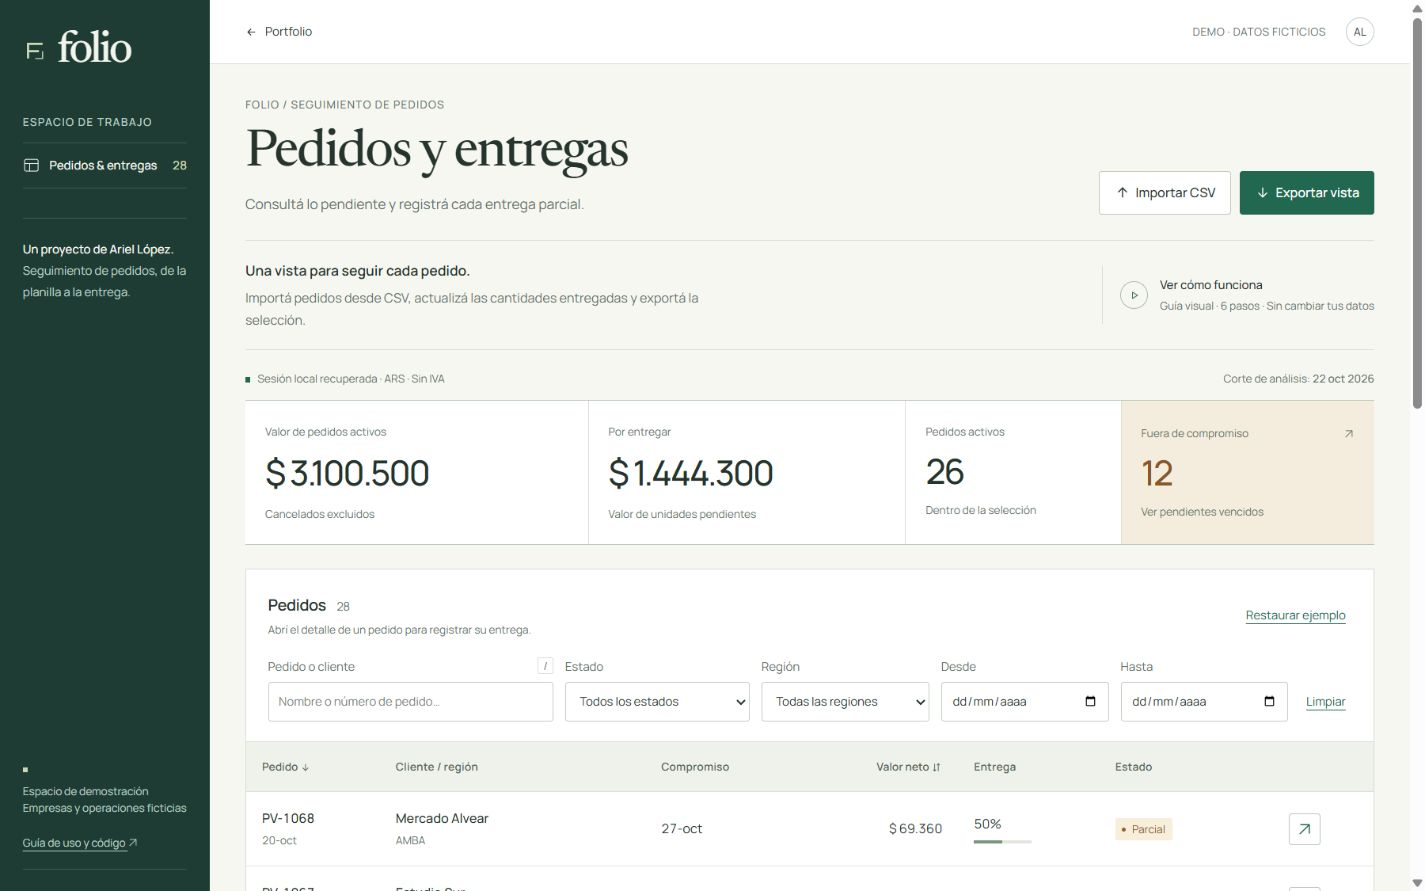
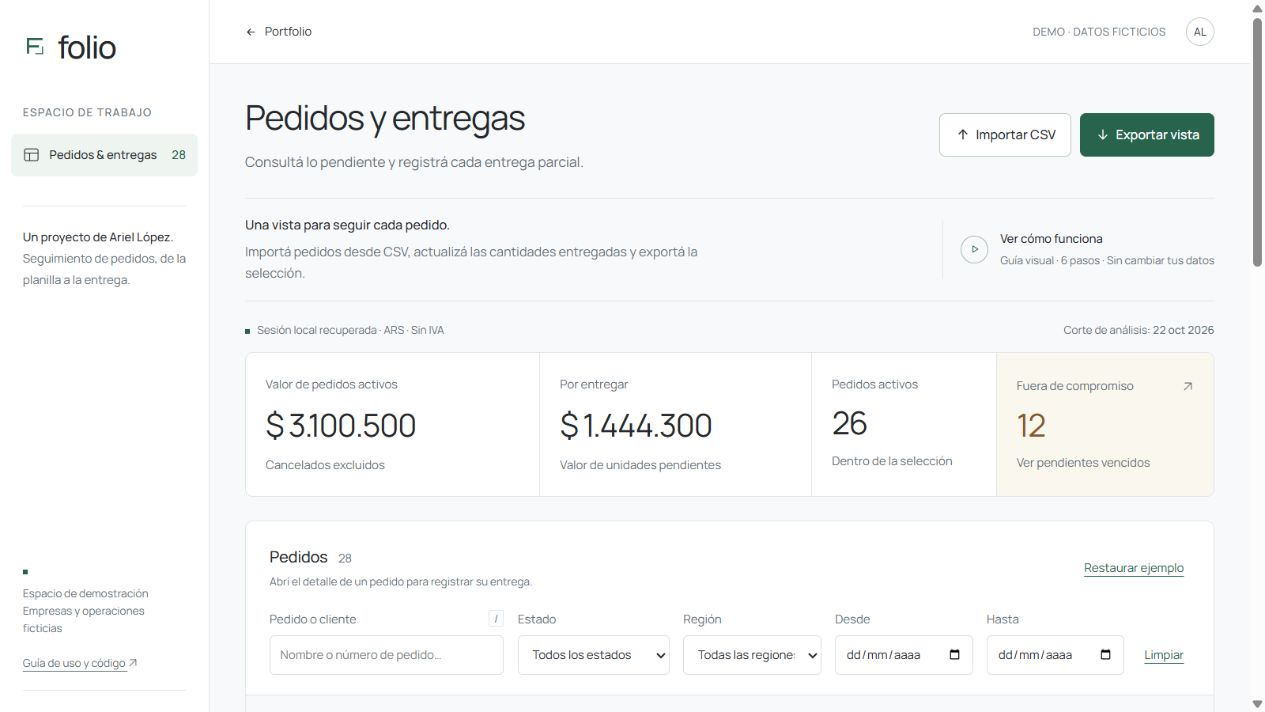
Rework Folio as a compact neutral workspace

diff --git a/direction.css b/direction.css
@@ -1,0 +1,174 @@
+/* A compact working interface: neutral typography and one operational accent. */
+:root {
+  --paper: #f8f9fa;
+  --surface: #fff;
+  --ink: #25282c;
+  --muted: #667079;
+  --line: #e1e5e8;
+  --accent: #28644d;
+  --display: Manrope, Arial, sans-serif;
+}
+body {
+  font-size: 14px;
+  line-height: 1.6;
+}
+.sidebar {
+  background: #fff;
+  color: var(--ink);
+  border-right: 1px solid var(--line);
+  padding-top: 28px;
+}
+.logo {
+  font: 500 32px/1.2 var(--ui);
+  letter-spacing: -0.04em;
+  margin-bottom: 38px;
+}
+.sidebar .desk-mark path {
+  stroke: var(--accent);
+}
+.sidebar-label,
+.side-bottom,
+.project-attribution {
+  color: var(--muted);
+}
+.project-attribution strong {
+  color: var(--ink);
+}
+.nav,
+.project-attribution,
+.side-bottom > a {
+  border-color: var(--line);
+}
+.nav {
+  background: #eef4f0;
+  border: 0;
+  border-radius: 6px;
+  padding: 12px;
+  margin-inline: -12px;
+}
+.nav i {
+  color: var(--accent);
+}
+.nav:hover {
+  color: var(--accent);
+}
+.demo-dot {
+  background: var(--accent);
+}
+.topbar {
+  min-height: 64px;
+}
+main {
+  padding-top: 32px;
+}
+h1 {
+  font: 400 clamp(28px, 2.7vw, 40px) / 1.25 var(--ui);
+  letter-spacing: -0.035em;
+}
+h2 {
+  font-weight: 500;
+  font-size: 16px;
+  letter-spacing: -0.015em;
+}
+.subtitle {
+  font-size: 14px;
+  line-height: 1.7;
+}
+.overline {
+  display: none;
+}
+.page-head {
+  align-items: center;
+}
+.app-explainer {
+  background: transparent;
+  margin-top: 24px;
+  padding: 16px 0;
+}
+.app-explainer strong {
+  font-size: 13px;
+  font-weight: 500;
+}
+.app-explainer p {
+  font-size: 13px;
+}
+.button {
+  border-radius: 6px;
+  font-size: 13px;
+}
+.metrics {
+  border: 1px solid var(--line);
+  border-radius: 8px;
+  overflow: hidden;
+}
+.metrics strong {
+  font-weight: 400;
+  letter-spacing: -0.035em;
+}
+.metrics p,
+.metrics small {
+  font-size: 12px;
+}
+.metric-alert {
+  background: #faf7ef;
+}
+.orders-panel,
+.chart-panel,
+.delivery-panel {
+  border: 1px solid var(--line);
+  border-radius: 8px;
+}
+.orders-heading {
+  padding: 24px 24px 0;
+}
+.filters {
+  padding: 20px 24px;
+  gap: 14px;
+}
+.filters label {
+  font-size: 12px;
+}
+input,
+select {
+  border-color: #d7dee3;
+  border-radius: 5px;
+  background: #fff;
+}
+table {
+  font-size: 13px;
+}
+th {
+  background: #f7f9fa;
+  color: #64717a;
+  font-weight: 500;
+  padding-block: 14px;
+}
+td {
+  border-color: #edf0f2;
+  padding-block: 18px;
+}
+.status {
+  border-radius: 4px;
+}
+.project-attribution {
+  font-size: 12px;
+  line-height: 1.8;
+}
+@media (max-width: 760px) {
+  .sidebar {
+    background: #fff;
+  }
+  .logo {
+    margin-bottom: 0;
+  }
+  main {
+    padding-top: 24px;
+  }
+  .page-head {
+    align-items: start;
+  }
+  .metrics p,
+  .metrics small {
+    font-size: 11px;
+  }
+}

diff --git a/index.html b/index.html
@@ -24,6 +24,7 @@
     <link rel="stylesheet" href="identity.css?v=20261101-type-1" />
     <script type="module" src="src/app.js?v=20261101-type-1"></script>
     <script type="module" src="src/tutorial.js?v=20261101-type-1"></script>
+    <link rel="stylesheet" href="direction.css?v=20261101-direction-2" />
     <link rel="stylesheet" href="video.css?v=20261101-type-1" />
   </head>
   <body>

diff --git a/README.md b/README.md
@@ -177,3 +177,7 @@ El [proceso de generación versionado](https://github.com/EnriqueArielLopez/port
 Newsreader aporta una marca editorial y Manrope mantiene legibles tabla, importes y controles. La navegación verde oscuro sirve de índice; la mesa de trabajo conserva una superficie clara, líneas finas e indicadores sin sombras decorativas. La demo narrada se encuentra después del área de trabajo e identifica que muestra la interfaz anterior. No cambian importación, persistencia, reglas ni exportación.
 
 Validado en Local: 26 pruebas; búsqueda de pedido, registro de entrega 12 → 18 y restauración a 12; guía interactiva y revisión de escritorio y móvil. Las capturas muestran datos ficticios.
+
+## Segunda revisión visual · 1 de noviembre de 2026
+
+Se reemplaza la dirección anterior por una interfaz de trabajo con Manrope regular, espaciado tipográfico moderado, títulos de 28–40 px, controles legibles y superficies neutras. `direction.css` reúne esta dirección visual. La revisión toma las proporciones tipográficas de Nexus Creative y distingue la presentación del portfolio de la densidad necesaria en una aplicación. Las reglas y los datos no cambian.
